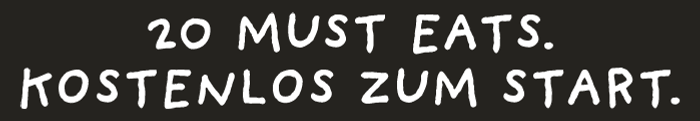
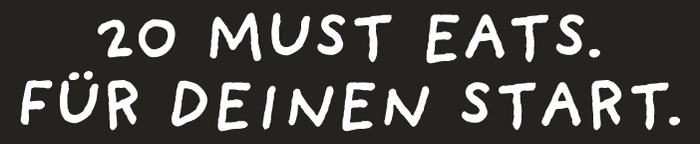
copy: kein Gratis-Wording mehr - Mail, Onboarding, Starter-Pack-Tafeln
Der Betreiber will kein "kostenlos", "gratis", "geht auf uns" (22.09.2026).

- Mail: "20 Must Eats. / Fuer deinen Start." statt "Kostenlos zum Start",
  Vorschautext und Klartext ziehen mit; EN "To get you started".
- Onboarding (Must-Eats-Erklaerung, Gast): Kicker "20 Must Eats" statt
  "Gratis"/"Free".
- Starter-Pack-Tafel und die Tafel auf dem geteilten Deck: der gelbe
  "Gratis"-Kicker ist ersatzlos raus, das "Kostenlos." am Satzende auch.
- Ein Test haelt alle vier Mails und die Betreffzeilen frei davon.

Changed region(s): [[0.03, 0.4959, 0.99, 0.9174], [0.12, 0.0744, 0.87, 0.4463]]

diff --git a/nextjs/lib/i18n/translations.ts b/nextjs/lib/i18n/translations.ts
@@ -60,7 +60,7 @@ const en = {
     // Last slide, logged-out variant. Selling a paid Booster Pack to someone
     // without an account skips a rung: the free Starter Pack is the offer that
     // actually applies to them.
-    onbStarterKicker: 'Free',
+    onbStarterKicker: '20 Must Eats',
     onbStarterTitle: 'Starter Pack.',
     onbStarterBody: '10 straight into your deck. 10 more are waiting out in Berlin for you.',
     onbStarterCta: 'Sign up',
@@ -264,10 +264,11 @@ const en = {
     /* Dieselbe Tafel wie der Starter-Pack-Abschnitt der Startseite, also auch
        dieselben Worte. Was sich unterscheidet, ist der erste Satz: hier steht
        ein Freund daneben. */
-    joinKicker: 'Free',
     joinTitle: 'Starter Pack',
-    joinLead: '{name} is already collecting. 20 cards to start your own\u00a0\u2014 ten in the deck, ten out there. Free.',
-    joinLeadAnon: '20 cards to start a deck of your own\u00a0\u2014 ten in the deck, ten out there. Free.',
+    joinLead:
+      '{name} is already collecting. 20 cards to start your own\u00a0\u2014 ten in the deck, ten out there.',
+    joinLeadAnon:
+      '20 cards to start a deck of your own\u00a0\u2014 ten in the deck, ten out there.',
     joinSentLead: "We've sent your link. One click and you're in.",
     joinHint: 'We send you a sign-in link.',
     joinEmailLabel: 'Email address',
@@ -498,7 +499,7 @@ const deOverrides: DeepPartial<TranslationsShape> = {
     onb3Body:
       'Ganz Berlin liegt schon auf deiner Map. Ein Booster Pack dreht dir Karten um, ohne dass du hinmusst.',
     onbFlipAria: 'Karte umdrehen',
-    onbStarterKicker: 'Gratis',
+    onbStarterKicker: '20 Must Eats',
     onbStarterTitle: 'Starter Pack.',
     onbStarterBody: '10 direkt im Deck. 10 weitere warten draußen in Berlin auf dich.',
     onbStarterCta: 'Anmelden',
@@ -580,7 +581,8 @@ const deOverrides: DeepPartial<TranslationsShape> = {
     pagerNext: 'Nächstes Must Eat',
     walkMinutes: 'zu Fuß',
     starterPromoTitle: 'Starter Pack',
-    starterPromoBody: '20 Must Eats, überall in Berlin verteilt. Bereit, von dir entdeckt zu werden.',
+    starterPromoBody:
+      '20 Must Eats, überall in Berlin verteilt. Bereit, von dir entdeckt zu werden.',
     starterPromoLogin: 'Schon dabei? Einloggen',
     /* Zwei Zustände, zwei Texte. Vorher sagten Kicker und Überschrift
        zweimal dasselbe („Nichts gefunden" / „Keine Spots."), und der Knopf
@@ -717,11 +719,12 @@ const deOverrides: DeepPartial<TranslationsShape> = {
     empty: 'Auf dieser Map liegen noch keine Karten.',
     /* Der Ausgang. Kein Knopf mehr, der irgendwohin fuehrt: das Feld steht
        auf der Seite (Nutzer, 06.09.2026). Was es verspricht, ist dasselbe wie
-       auf der Startseite — das Starter Pack, kostenlos. */
-    joinKicker: 'Gratis',
+       auf der Startseite — das Starter Pack. */
     joinTitle: 'Starter Pack',
-    joinLead: '{name} sammelt schon. 20 Karten f\u00fcr dein eigenes Deck\u00a0\u2014 zehn liegen drin, zehn liegen drau\u00dfen. Kostenlos.',
-    joinLeadAnon: '20 Karten f\u00fcr dein eigenes Deck\u00a0\u2014 zehn liegen drin, zehn liegen drau\u00dfen. Kostenlos.',
+    joinLead:
+      '{name} sammelt schon. 20 Karten f\u00fcr dein eigenes Deck\u00a0\u2014 zehn liegen drin, zehn liegen drau\u00dfen.',
+    joinLeadAnon:
+      '20 Karten f\u00fcr dein eigenes Deck\u00a0\u2014 zehn liegen drin, zehn liegen drau\u00dfen.',
     joinSentLead: 'Wir haben dir den Link geschickt. Ein Klick und du bist drin.',
     joinHint: 'Wir schicken dir einen Link zum Einloggen.',
     joinEmailLabel: 'E-Mail Adresse',
@@ -820,7 +823,8 @@ const deOverrides: DeepPartial<TranslationsShape> = {
        eins, sichtbar war davon nur eine Zahl — wen man geworben hat, stand
        nirgends. */
     friendsHeading: 'Deine Crew',
-    friendsLine: 'Sie sind \u00fcber deinen Link gestartet. Tipp auf eine Figur und sieh dir ihr Deck an.',
+    friendsLine:
+      'Sie sind \u00fcber deinen Link gestartet. Tipp auf eine Figur und sieh dir ihr Deck an.',
     friendAnonymous: 'Namenlos',
     inviteCta: 'Deck teilen',
     inviteCopied: 'Link kopiert',
@@ -874,7 +878,8 @@ const deOverrides: DeepPartial<TranslationsShape> = {
       backBtn: 'Zur\u00fcck',
       heroH1: 'Starter Pack',
       heroSub: '20 Must Eats, überall in Berlin verteilt. Bereit, von dir entdeckt zu werden.',
-      modalBenefitLead: '20 Must Eats, überall in Berlin verteilt. Bereit, von dir entdeckt zu werden.',
+      modalBenefitLead:
+        '20 Must Eats, überall in Berlin verteilt. Bereit, von dir entdeckt zu werden.',
       signinBoosterHeadline: 'WE TELL YOU WHAT TO EAT',
       signinBoosterLead: 'Dein Deck wartet. Mach da weiter, wo du aufgehört hast.',
       modalTagline: 'Anmelden',

diff --git a/nextjs/emails/__tests__/authEmails.test.ts b/nextjs/emails/__tests__/authEmails.test.ts
@@ -137,7 +137,7 @@ describe('SignupEmail', () => {
     expect(html).toContain('unsere Must Eat Gerichte, für die sich der Besuch lohnt');
     expect(html).not.toContain('Gute Spots findest du überall');
     expect(html).toContain('DEIN STARTER PACK');
-    expect(html).toContain('20 MUST EATS. KOSTENLOS ZUM START.');
+    expect(html).toContain('20 MUST EATS. FÜR DEINEN START.');
     expect(html).not.toContain('GEHT AUF UNS');
     expect(html).toContain('/pics/email/booster_free.png');
     expect(html).toContain('Anmeldelink öffnen');
@@ -242,7 +242,7 @@ describe('EN-Fassung', () => {
     'Anmelden',
     'Einloggen',
     'Anmeldelink',
-    'KOSTENLOS',
+    'FÜR DEINEN',
     'Stunde',
     'Gratis',
     'WILLKOMMEN',
@@ -269,7 +269,7 @@ describe('EN-Fassung', () => {
   it('Anmelde-Mail: ein Wort im Knopf, Starter-Pack-Satz der Seite, EN-Grafiken', async () => {
     const html = await signupEn();
     expect(html).toContain('>Sign up<');
-    expect(html).toContain('20 MUST EATS. FREE TO START.');
+    expect(html).toContain('20 MUST EATS. TO GET YOU STARTED.');
     expect(html).toContain('/pics/email/kicker-signup-en.png');
     expect(html).toContain('/pics/email/body-starter-en.png');
     expect(html).toContain('/en/map?r=sofi');
@@ -282,5 +282,23 @@ describe('EN-Fassung', () => {
     expect(html).toContain('WELCOME BACK');
     expect(html).toContain('/pics/email/headline-login-en.png');
     expect(LOGIN_SUBJECT.en).toBe('Your Eat This sign-in link');
+  });
+});
+
+/* Kein Geschenk-Wording, nirgends in den Mails: „kostenlos", „gratis",
+   „geht auf uns" hat der Betreiber am 22.09.2026 dreimal abgelehnt. */
+describe('kein Gratis-Wording', () => {
+  it('sagt in keiner Fassung, dass etwas geschenkt ist', async () => {
+    const texts = [
+      await signup(),
+      await login(),
+      await signupEn(),
+      await loginEn(),
+      SIGNUP_SUBJECT.de,
+      SIGNUP_SUBJECT.en,
+    ];
+    for (const text of texts) {
+      expect(text).not.toMatch(/kostenlos|gratis|geschenk|umsonst|auf uns|\bfree\b|on us/i);
+    }
   });
 });

diff --git a/nextjs/emails/magicLinkText.ts b/nextjs/emails/magicLinkText.ts
@@ -14,7 +14,7 @@ const TEXT = {
       'Wir empfehlen dir gute Spots in Berlin und unsere Must Eat Gerichte, für die sich der Besuch lohnt.',
     signupIntro: 'Bei Eat This anmelden:',
     signupAfter: [
-      'Dein Starter Pack: 20 Must Eats, kostenlos zum Start. Jede Karte verrät dir, was du',
+      'Dein Starter Pack: 20 Must Eats für deinen Start. Jede Karte verrät dir, was du',
       'an einem Spot bestellen solltest. Manche sind schon offen, andere deckst du',
       'erst vor Ort auf.',
     ],
@@ -27,7 +27,7 @@ const TEXT = {
       'We recommend great spots in Berlin and our Must Eat dishes that make the visit worth it.',
     signupIntro: 'Sign up for Eat This:',
     signupAfter: [
-      'Your Starter Pack: 20 Must Eats, free to start. Every card tells you what to order at',
+      'Your Starter Pack: 20 Must Eats to get you started. Every card tells you what to order at',
       'a spot. Some are already open, others you reveal on site.',
     ],
   },

diff --git a/nextjs/emails/spots.generated.ts b/nextjs/emails/spots.generated.ts
@@ -17,21 +17,21 @@ export const SPOT_DISPLAY_WIDTH = 536;
 
 export const EMAIL_SPOTS: readonly EmailSpot[] = [
   {
-    "slug": "jones-ice-cream",
-    "name": "Jones Ice Cream",
-    "meta": "Schöneberg",
-    "version": "10087d1c"
+    slug: 'jones-ice-cream',
+    name: 'Jones Ice Cream',
+    meta: 'Schöneberg',
+    version: '10087d1c',
   },
   {
-    "slug": "hasir",
-    "name": "Hasir",
-    "meta": "Schöneberg",
-    "version": "b150eb6b"
+    slug: 'hasir',
+    name: 'Hasir',
+    meta: 'Schöneberg',
+    version: 'b150eb6b',
   },
   {
-    "slug": "schuesseldienst",
-    "name": "Schüsseldienst",
-    "meta": "Schöneberg",
-    "version": "0fb4acdc"
-  }
+    slug: 'schuesseldienst',
+    name: 'Schüsseldienst',
+    meta: 'Schöneberg',
+    version: '0fb4acdc',
+  },
 ];

diff --git a/nextjs/app/components/StarterPackSignup.tsx b/nextjs/app/components/StarterPackSignup.tsx
@@ -43,7 +43,6 @@ interface Props {
  */
 const copy = {
   de: {
-    kicker: 'Gratis',
     title: 'Starter Pack',
     lead: '20 neue Must Eats warten darauf, von dir entdeckt zu werden.',
     hint: 'Wir schicken dir einen Link zum Einloggen.',
@@ -61,7 +60,6 @@ const copy = {
     imgAlt: 'Eat This Starter Pack',
   },
   en: {
-    kicker: 'Free',
     title: 'Starter Pack',
     lead: '20 new Must Eats, waiting for you to discover them.',
     hint: 'We send you a sign-in link.',
@@ -150,7 +148,6 @@ export default function StarterPackSignup({ locale }: Props) {
         </div>
 
         <div className={styles.head}>
-          <span className={`hv-cap ${styles.kicker}`}>{t.kicker}</span>
           <h2 className={`hv-title ${styles.title}`}>{t.title}</h2>
         </div>
 

diff --git a/nextjs/emails/art.generated.ts b/nextjs/emails/art.generated.ts
@@ -70,9 +70,9 @@ export const ART = {
   titleStarter: {
     id: 'title-starter',
     width: 350,
-    height: 61,
-    alt: '20 MUST EATS. KOSTENLOS ZUM START.',
-    version: '79542be3',
+    height: 72,
+    alt: '20 MUST EATS. FÜR DEINEN START.',
+    version: 'bb269448',
   },
   bodyStarter: {
     id: 'body-starter',
@@ -188,10 +188,10 @@ export const ART = {
   },
   titleStarterEn: {
     id: 'title-starter-en',
-    width: 233,
-    height: 61,
-    alt: '20 MUST EATS. FREE TO START.',
-    version: 'ddaf8c02',
+    width: 396,
+    height: 72,
+    alt: '20 MUST EATS. TO GET YOU STARTED.',
+    version: '9c1bffef',
   },
   bodyStarterEn: {
     id: 'body-starter-en',

diff --git a/nextjs/emails/SignupEmail.tsx b/nextjs/emails/SignupEmail.tsx
@@ -40,7 +40,7 @@ export const SIGNUP_SUBJECT: Record<MailLocale, string> = {
    sind (scripts/build-email-art.mts); hier liegt nur, was echter Text bleibt. */
 const COPY = {
   de: {
-    preview: '20 Must Eats in Berlin. Kostenlos zum Start.',
+    preview: '20 Must Eats für deinen Start in Berlin.',
     kicker: ART.kickerSignup,
     lead: ART.leadSignup,
     cta: 'Anmelden',
@@ -52,7 +52,7 @@ const COPY = {
     starterBody: ART.bodyStarter,
   },
   en: {
-    preview: '20 Must Eats in Berlin. Free to start.',
+    preview: '20 Must Eats to get you started in Berlin.',
     kicker: ART.kickerSignupEn,
     lead: ART.leadSignupEn,
     cta: 'Sign up',

diff --git a/nextjs/app/components/StarterPackSignup.test.tsx b/nextjs/app/components/StarterPackSignup.test.tsx
@@ -70,10 +70,11 @@ describe('StarterPackSignup', () => {
     cleanup();
   });
 
-  it('names the offer, its price and the magic-link step', () => {
+  it('names the offer and the magic-link step', () => {
     const html = renderToStaticMarkup(<StarterPackSignup locale="de" />);
     expect(html).toContain('Starter Pack');
-    expect(html).toContain('Gratis');
+    // Kein „Gratis"-Kicker: Geschenk-Wording will der Betreiber nicht (22.09.2026).
+    expect(html).not.toContain('Gratis');
     expect(html).toContain('placeholder="deine@email.com"');
     expect(html).toContain('Anmelden');
     // The mail that follows must not come as a surprise.

diff --git a/nextjs/app/components/StarterPackSignup.module.css b/nextjs/app/components/StarterPackSignup.module.css
@@ -47,22 +47,6 @@
   width: 100%;
 }
 
-/* „Gratis" als gelbe Kreide-Zeile, wie der Kicker auf jeder Tafel. */
-:global(.homeV2) .kicker:global(.hv-cap) {
-  display: block;
-  width: fit-content;
-  margin: 0 0 clamp(12px, 1.4vw, 18px);
-  padding: 0;
-  color: var(--starter-accent);
-  background: transparent;
-  border-radius: 0;
-  font-size: 12px;
-  font-weight: 700;
-  letter-spacing: var(--et-tracking-meta, 0.1em);
-  line-height: 1.3;
-  text-transform: uppercase;
-}
-
 :global(.homeV2) .title:global(.hv-title) {
   margin: 0;
   color: var(--starter-paper);

diff --git a/nextjs/emails/__tests__/magicLinkText.test.ts b/nextjs/emails/__tests__/magicLinkText.test.ts
@@ -50,7 +50,7 @@ describe('auth mail plain-text parts', () => {
     const login = buildLoginText('https://x/v', 'en');
     const signup = buildSignupText('https://x/v', 'en');
     expect(login).toContain('Welcome back.');
-    expect(signup).toContain('20 Must Eats, free to start.');
+    expect(signup).toContain('20 Must Eats to get you started.');
     for (const t of [login, signup]) {
       expect(t).toContain('https://x/v');
       expect(t).toContain('one hour');

diff --git a/nextjs/app/[locale]/deck/[uid]/DeckJoin.tsx b/nextjs/app/[locale]/deck/[uid]/DeckJoin.tsx
@@ -151,7 +151,6 @@ export default function DeckJoin({ name }: { name: string | null }) {
         </div>
 
         <div className={starter.head}>
-          <span className={`hv-cap ${starter.kicker}`}>{t('joinKicker')}</span>
           <h2 className={`hv-title ${starter.title}`}>{t('joinTitle')}</h2>
         </div>
 
